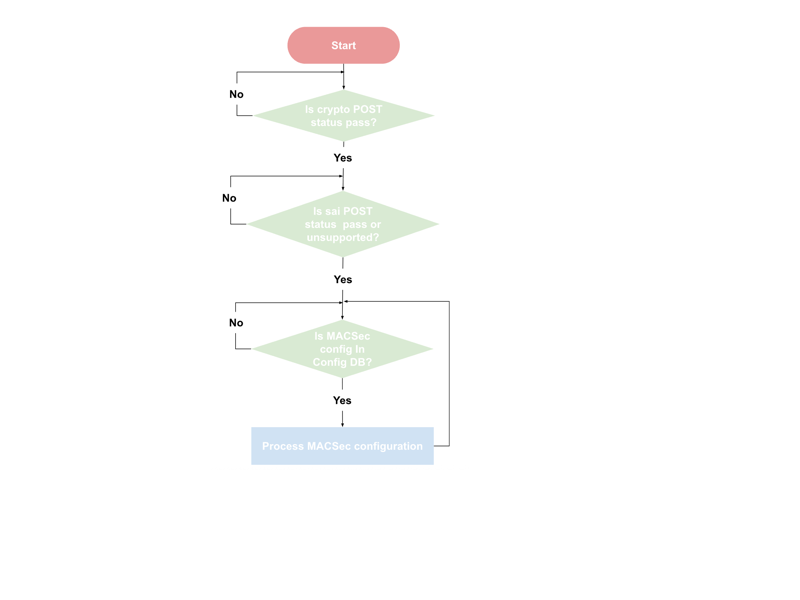
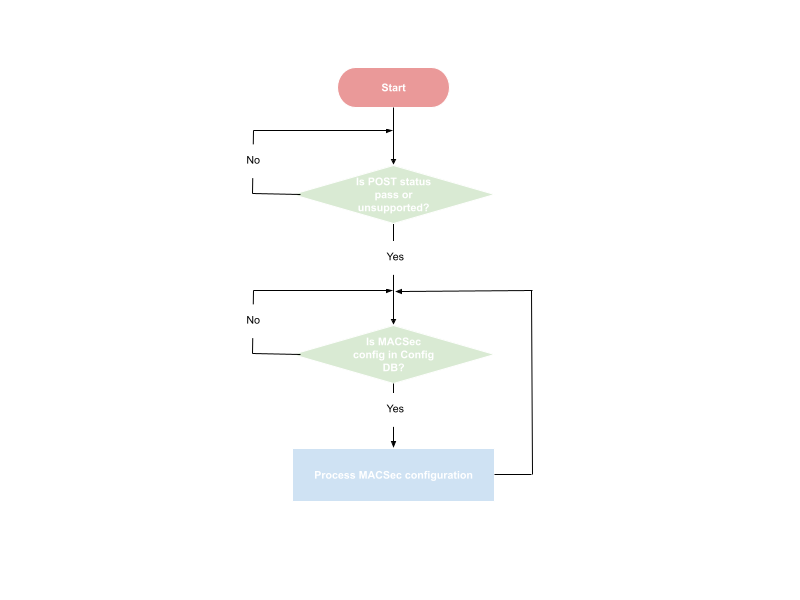
Revert "Update and rename SONiC-SAI-POST.md to SONiC-MACsec-POST.md"

Changed region(s): [[0.2812, 0.03, 0.6562, 0.84], [0.2812, 0.15, 0.3125, 0.18]]

diff --git a/doc/fips/SONiC-SAI-POST.md b/doc/fips/SONiC-SAI-POST.md
@@ -1,4 +1,4 @@
-# SONiC POST support for MACSec
+# SONiC SAI POST support for MACSec
 
 ## Revision
 | Rev |     Date    |       Author       | Change Description |      
@@ -14,7 +14,6 @@
   * [Enabling POST in SAI MACSec init](#Enabling-POST-in-SAI-MACSec-init)
   * [Checking SAI POST status](#Checking-SAI-POST-status)
   * [Handling SAI POST failure](#Handling-SAI-POST-failure)
-  * [Enabling Control Plane POST in MACSecMgr init](#Enabling-Control-Plane-POST-in-MACSecMgr-init)
   * [Enforcing FIPS compliance](#Enforcing-FIPS-compliance)
 
 ## Overview
@@ -25,22 +24,19 @@ This document describes SONiC design for Federal Information Processing Standard
 
 The design must meet the following requirements:
 - In order to accommodate different forwarding ASIC architecture or SAI implementation, the design should support enabling POST at either switch level (during switch init) or at MACSec engine level (during MACSec engine init).
-- Should enable control plane POST at the MACSec level.
 - SONiC MACSec configuration must be processed only after POST passes. 
 - POST failure must not affect the operation of non-MACSec ports.
 - Explicit visibility must be provided if POST fails, for example, in syslog. The syslog message must include the details of the failure. For example, SAI object Id of ports that fail POST and the corresponding MACSec engine.
-- SONiC CLI support to access the POST status.
 
 ## Deisgn details
 
-The following figure depicts the data flow and SONiC components in the design. Orchagent is responsible for triggering POST via SAI calls and publishing POST status in State DB. MACSec container, precisely MACSecMgr, is enhanced to be POST aware and only process MACSec configuration after POST has passed.
-The control plane POST is triggered by the MACSecMgr by querying FIPS readiness from the wpa_supplicant, which implements the MACSec control plane.
+The following figure depicts the data flow and SONiC components in the design. Orchagent is responsible for triggering POST via SAI calls and publishing POST status in State DB. MACSec container, precisely MACSecMgr, is enhanced to be POST aware and only process MACSec configuration after POST has passed. 
 
 ![](images/fips-post-overview.png)
 
 ### State DB
 
-The following table is added to State DB to track MACSec POST status, including SAI and and control plane POST result/status.
+The following table is added to State DB to track MACSec POST status, including SAI POST result/status.
 ```
 FIPS_MACSEC_POST_TABLE
 
@@ -53,19 +49,15 @@ status = "switch-level-post-in-progress"    ; SAI switch level POST is in-progre
          "fail"                             ; SAI POST failed. 
          "disabled"                         ; SAI POST is disabled.
 
-key    = FIPS_MACSEC_POST_TABLE|crypto
-status = "pass"                             ; Control Plane POST passed.
-         "fail"                             ; Control Plane POST failed. 
-timestamp = <date time>                     ; POST status update time.
 ```
 
-### Enabling POST
+### Enabling SAI POST
 
-POST is enabled only when FIPS is enabled in SONiC. FIPS can be configured via either sonic-installer, i.e., set-fips option, or config file, i.e.,/etc/sonic/fips.json. Enabling FIPS requires switch reboot, and FIPS config will be populated in FIPS_STATS table in State DB after reboot. However, there may be a latency to populate FIPS config in State DB. Therefore, checking FIPS config in State DB is reliable because Orchagent may start before FIPS config is populated. Instead, Orchagent will directly check FIPS config in the following files:
+SAI POST is enabled only when FIPS is enabled in SONiC. FIPS can be configured via either sonic-installer, i.e., set-fips option, or config file, i.e.,/etc/sonic/fips.json. Enabling FIPS requires switch reboot, and FIPS config will be populated in FIPS_STATS table in State DB after reboot. However, there may be a latency to populate FIPS config in State DB. Therefore, checking FIPS config in State DB is reliable because Orchagent may start before FIPS config is populated. Instead, Orchagent will directly check FIPS config in the following files:
 - /proc/cmdline : When FIPS is configured via sonic-installer, the result, e.g., sonic_fips=1, is written in this file.
 - /etc/fips/fips_enable : If FIPS is configured via config file /etc/sonic/fips.json, /etc/fips/fips_enable is updated accordingly.
 
-Orchagent and and MACSecMgr will trigger SAI and control plane POSTs if FIPS is enabled in either of the above files.
+Orchagent will trigger SAI POST if FIPS is enabled in either of the above files.
 
 ### Enabling POST in SAI switch init
 
@@ -77,6 +69,12 @@ Orchagent enables POST when creating SAI switch. After SAI switch is created, Or
 
 If POST is not supported in either switch or MACSec init, then SAI does not support POST. In this case, Orchagent sets POST status to fail if FIPS is enabled in SONiC.
 
+### Enabling POST in SAI MACSec init
+
+POST is performed by MACSecOrch when POST is supported only in MACSec init. The following flow chart demonstrates the process.
+
+![](images/fips-post-macsec-init.png)
+
 POST is triggered in MACSecOrch initialization. Since POST is enabled via SAI MACSec create API, SAI MACSec object may be created proactively and before any MACSec port is configured.
 
 ### Checking SAI POST status
@@ -87,7 +85,7 @@ Since SAI supports POST completion callback, a callback or notification function
 
 If SAI POST fails,  MACSecOrch reads POST status of all MACSec ports and finds out which port has failed in POST.  MACSecOrch then adds the details of the failure in syslog. The following syslog is added to report SAI POST failure.
 
-Switch level POST failure
+Swith level POST failure
 ```
 Switch MACSec POST failed
 ```
@@ -96,49 +94,8 @@ MACSec level POST failure
 MACSec POST failed: oid <macsec-oid>, direction ingress|egresss
 ```
 
-### Enabling POST in SAI MACSec init
-
-POST is performed by MACSecOrch when POST is supported only in MACSec init. The following flow chart demonstrates the process.
-
-![](images/fips-post-macsec-init.png)
-
-### Enabling Control Plane POST in MACSecMgr init
-
-MACSecMgr performs POST status query during process init and publishes the status in the _FIPS_MACSEC_POST_TABLE|crypto_ table. Any w. A failure will result in MACSecMgr not processing any configuration beyond this.
-
-![](images/fips-cp-post-macsec-init.png)
-
 ### Enforcing FIPS compliance
 
 In order to be compliant to FIPS, SONiC should process MACSec configuration only after POST passes. This is achieved by enhancing MACSecMgr, running in MACSec container, to check POST status published in State DB before processing any MACSec configuration, as shown in the flow chart below:
 
 ![](images/fips-post-compliance.png)
-
-### CLI
-
-The existing MACSec show CLI command _show macsec ..._ can be extended, by introducing a new argument '**--post-status**', to access the POST status from _FIPS_MACSEC_POST_TABLE_.
-```
-show macsec --help
-Usage: show macsec [OPTIONS] [INTERFACE_NAME]
-
-Options:
-  --profile                     show all macsec profiles
-  --dump-file                   store show output to a file
-  --post-status                 show macsec FIPS POST(Pre-Operational Self-Test) status
-  -d, --display [all|frontend]  Show internal interfaces  [default: all]
-  -n, --namespace []            Namespace name or all
-  -?, -h, --help                Show this message and exit.
-```
-Sample output
-```
-admin@sonic:~$ show macsec --post-status
-POST Status:
-===========
-Module    : crypto
-Status    : pass
-Timestamp : 2025-10-07 11:34:11 UTC
-
-Module    : sai
-Status    : pass
-Timestamp : 2025-10-07 11:34:11 UTC
-```
